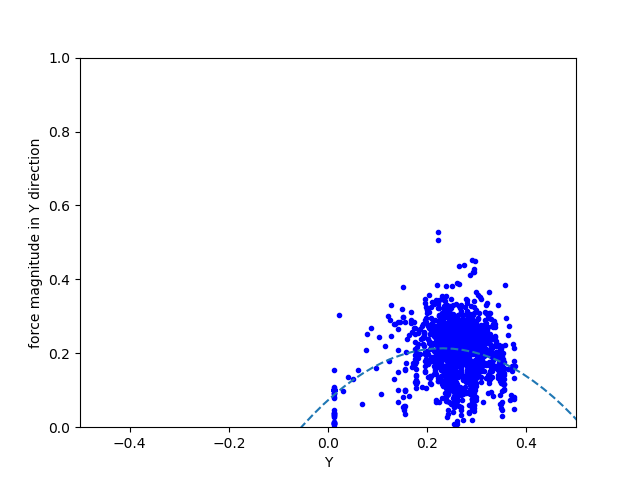
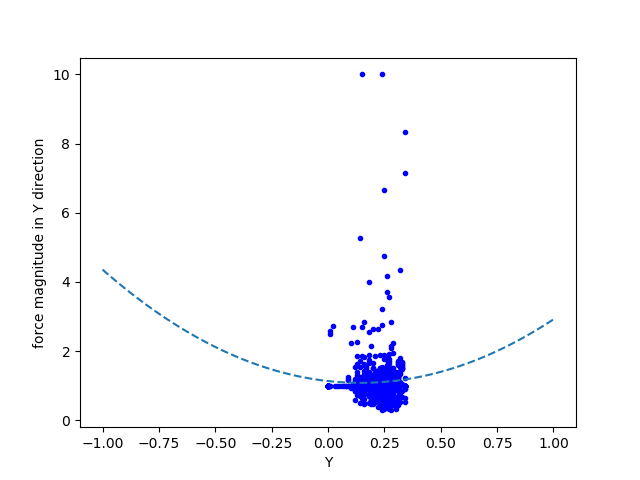
filtering and smoothing force data

diff --git a/humanPoseEstimation/humanStiffTest.py b/humanPoseEstimation/humanStiffTest.py
@@ -1,0 +1,110 @@
+import numpy as np 
+from inertiaEstimator import inertiaEstimator
+import matplotlib as mpl
+import matplotlib.pyplot as plt
+from mpl_toolkits.mplot3d import Axes3D
+
+from shoulderGuesser import shoulderGuesser
+
+
+sg = shoulderGuesser()
+#path 4 - standing far to the posive x
+#path 3 - standing ~= x=0
+path = np.loadtxt('armPath4.txt')
+pathCart = sg.getCartPath(path=path)
+
+forcesCart = sg.getCartForces(pathCart)
+
+#make forces discrete
+forcesCart[:,:] = (np.floor(forcesCart[:,:]*100))*0.01
+
+pathCart[:,:] =  (np.floor(pathCart[:,:]*100))*0.01
+
+# forcesCart[:,0] = np.power(forcesCart[:,0],0.1) 
+# print(forcesCart)
+
+#force vs X
+figX = plt.figure(1)
+axX = figX.add_subplot()
+plt.axis([-1,1,0,5])
+axX.set_xlabel('x')
+axX.set_ylabel('force ratio Fx/Fx vs x position')
+
+# xForces = forcesCart[forcesCart[:,0].argsort()]
+# print(forcesCart[:,1])
+# yForces = forcesCart[forcesCart[:,2].argsort()]
+# zForces = forcesCart[forcesCart[:,1].argsort()]
+
+z = np.argwhere(forcesCart[:,2] < 0.1)
+forcesCart[z,2] =  1
+estRadius = 1 #the radius of the circle on wich the human is most likely standing
+# ang = np.arccos(pathCart[:,0]/estRadius)
+
+numPts = 100
+conf = np.zeros(numPts)
+for x in np.linspace(0,1,numPts):
+	#TODO - 
+	ang = np.arccos(pathCart[:,0]-x/estRadius)
+	FxFz = abs((forcesCart[:,0]/(np.sin(ang)))/(forcesCart[:,2]/(np.cos(ang))))
+	# FxFz = ((forcesCart[:,0])/(forcesCart[:,2]))/np.sin(ang)
+	# color = [abs(x),abs(x),0.5]
+
+	points, = axX.plot(pathCart[:,0],FxFz,'b.')
+	polyOrder = 4 #start with 2nd order, try again and again until there is a negative coeffieienct on largest term
+	bestFitX = np.polyfit(pathCart[:,0],FxFz,polyOrder)
+	print(bestFitX)
+	pX = np.poly1d(bestFitX)
+	xpX= np.linspace(-1,1,100)
+	axX.plot(xpX,pX(xpX),'--')
+
+	plt.pause(0.1)
+	plt.draw()
+	points.remove()
+plt.pause(5)
+# critX = pX.deriv().r
+# r_critX = critX[critX.imag==0].real
+# testX = pX.deriv(2)(r_critX)
+# x_maxX = r_critX[testX<0]
+# y_min = pX(x_maxX)
+
+# print("shoulder x is = ", max(x_maxX, key=abs))
+
+# #Y vs Force
+# figY = plt.figure(3)
+# axY = figY.add_subplot()
+# # plt.axis([-0.5,0.5,0,1])
+# axY.set_xlabel('Y')
+# axY.set_ylabel('force magnitude in Y direction')
+
+# forcesCart[forcesCart[:,0] < 0.1] =1
+
+# axY.plot(pathCart[:,2],forcesCart[:,2]/forcesCart[:,0],'b.')
+# polyOrder = 2
+# bestFitY = np.polyfit(pathCart[:,2],forcesCart[:,2]/forcesCart[:,0],polyOrder)
+# print(bestFitY)
+# pY = np.poly1d(bestFitY)
+# xpY = np.linspace(-1,1,100)
+
+# axY.plot(xpY,pY(xpY),'--')
+# plt.savefig('test.png')
+
+# #Z vs Force
+# figZ = plt.figure(2)
+# axZ = figZ.add_subplot()
+# # plt.axis([-0.5,0.5,0,1])
+# axZ.set_xlabel('z')
+# axZ.set_ylabel('force magnitude in z direction')
+
+
+# axZ.plot(pathCart[:,1],forcesCart[:,1]/forcesCart[:,2],'b.')
+# polyOrder = 2
+# bestFitZ = np.polyfit(pathCart[:,1],forcesCart[:,1]/forcesCart[:,2],polyOrder)
+# print(bestFitZ)
+# pZ = np.poly1d(bestFitZ)
+# xpZ = np.linspace(-1,1,100)
+
+# axZ.plot(xpZ,pZ(xpZ),'--')
+
+
+# plt.pause(30)
+# plt.draw()

diff --git a/humanPoseEstimation/lookAtForces.py b/humanPoseEstimation/lookAtForces.py
@@ -1,0 +1,60 @@
+import numpy as np
+from numpy import convolve 
+import matplotlib as mpl
+import matplotlib.pyplot as plt
+from mpl_toolkits.mplot3d import Axes3D
+from shoulderGuesser import shoulderGuesser
+from scipy.signal import savgol_filter
+from scipy.interpolate import interp1d
+
+def movingAverage(values,window):
+	weights = np.repeat(1.0,window)/window
+	sma = np.convolve(values,weights,'valid')
+	return sma
+
+sg = shoulderGuesser()
+
+path = np.loadtxt('armPath3.txt')
+pathCart = sg.getCartPath(path)
+forces = sg.getCartForces(pathCart)
+# print(forces)
+
+t = np.arange(np.shape(forces)[0])
+
+xForces = forces[:,0]
+
+#Savgol Filter
+# window_size = 101
+# poly_order = 3
+# sg = savgol_filter(forces,window_size,poly_order)
+
+# print(sg)
+
+plt.figure()
+#Moving Average Filter
+window_size = 30
+xForcesMA = movingAverage(xForces,window_size)
+# plt.plot(xForces[len(xForces)-len(yMA):],yMA)
+plt.plot(t[len(t)-len(xForcesMA):],xForcesMA,label="Moving Average Filter")
+
+#Cubic Interpolation of moving average data
+f2 = interp1d(t[len(t)-len(xForcesMA):],xForcesMA,kind='cubic')
+tNew = np.linspace(len(t)-len(xForcesMA),len(xForces)-1,num=41,endpoint=True)
+cubicInterp, = plt.plot(tNew, f2(tNew), '--')
+
+# plt.axis([0,np.shape(forces)[0],0,5])
+#RAW DATA IS NOISY AF
+ptsX, = plt.plot(t,forces[:,0],'r.', label='Raw Force Data')
+
+
+
+
+#OLD POLYFIT STRATEGY
+# polyOrder = 30
+# bestFitX = np.polyfit(pathCart[:,0],t,polyOrder)
+# pX = np.poly1d(bestFitX)
+# xpX= np.linspace(-1,1,100)
+# plt.plot(t,pX(t),'--')
+plt.legend(loc='best')
+plt.pause(10)
+plt.draw()

diff --git a/humanPoseEstimation/shoulderGuesser.py b/humanPoseEstimation/shoulderGuesser.py
@@ -36,7 +36,7 @@ class shoulderGuesser:
 		# cartForces = cartForces
 		j = 1
 		while j < (np.shape(velCart)[0]):
-			cartForces[j] = (velCart[j] - velCart[j-1])
+			cartForces[j] = (velCart[j] - velCart[j-1])#**2
 			cartForces[cartForces == 0] = 0.0001
 			cartForces[j] = (abs(cartForces[j]))**0.25 # +/- direction of cart. components not important
 			j += 1
@@ -116,6 +116,11 @@ class shoulderGuesser:
 if __name__ == "__main__":
 	print("oooweee")
 	
+	mostFitThresh = 1
+	leastFitThresh = 1
+	forceWeight = 0.5
+	kinematicsWeight = 1
+
 	sg = shoulderGuesser()
 	pathCart = sg.getCartPath()
 	# print(pathCart)
@@ -163,7 +168,7 @@ if __name__ == "__main__":
 		colors = np.zeros([3,numPts])
 		colors[:,:] = distF
 		#set cost p[3] to sum of the two cost metrics
-		p[3,:] = distF**2 + fromKinematics
+		p[3,:] = distF**forceWeight + fromKinematics**kinematicsWeight
 		avg = np.average(p[3,:])
 		
 		#color based on force Fitness kina inefficient though
@@ -174,8 +179,8 @@ if __name__ == "__main__":
 		pts, = plt.plot(p[0,:],p[2,:],p[1,:],'b.')
 
 		#get rid of the least fit particles
-		unfit = np.argwhere(p[3,:]>(1.5*avg))
-		mostFit = np.argwhere(p[3,:]<0.25*avg) #take note of most fit
+		unfit = np.argwhere(p[3,:]>(leastFitThresh*avg))
+		mostFit = np.argwhere(p[3,:]<mostFitThresh*avg) #take note of most fit
 		worstOfTheBest = np.max(p[3,mostFit])
 		invFit = worstOfTheBest	- p[3,:] #temporarily rank fitness as higher being better so I can do roulette wheel random selection
 		n = 0
